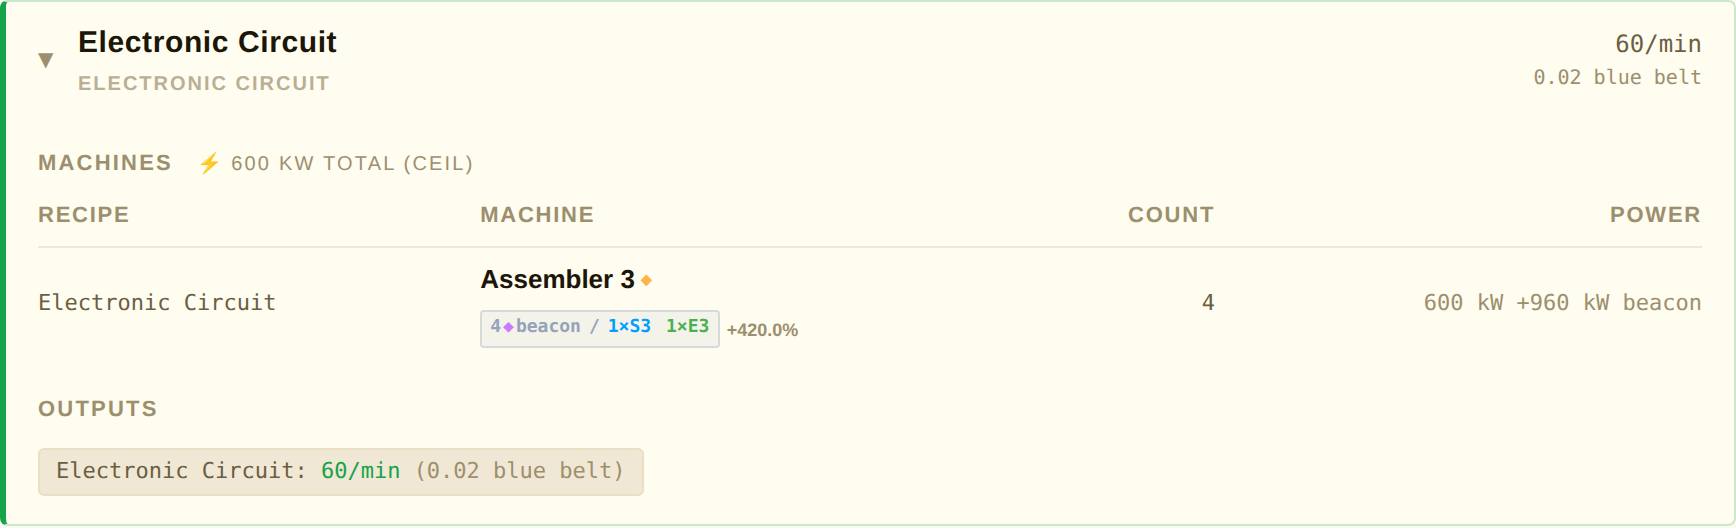
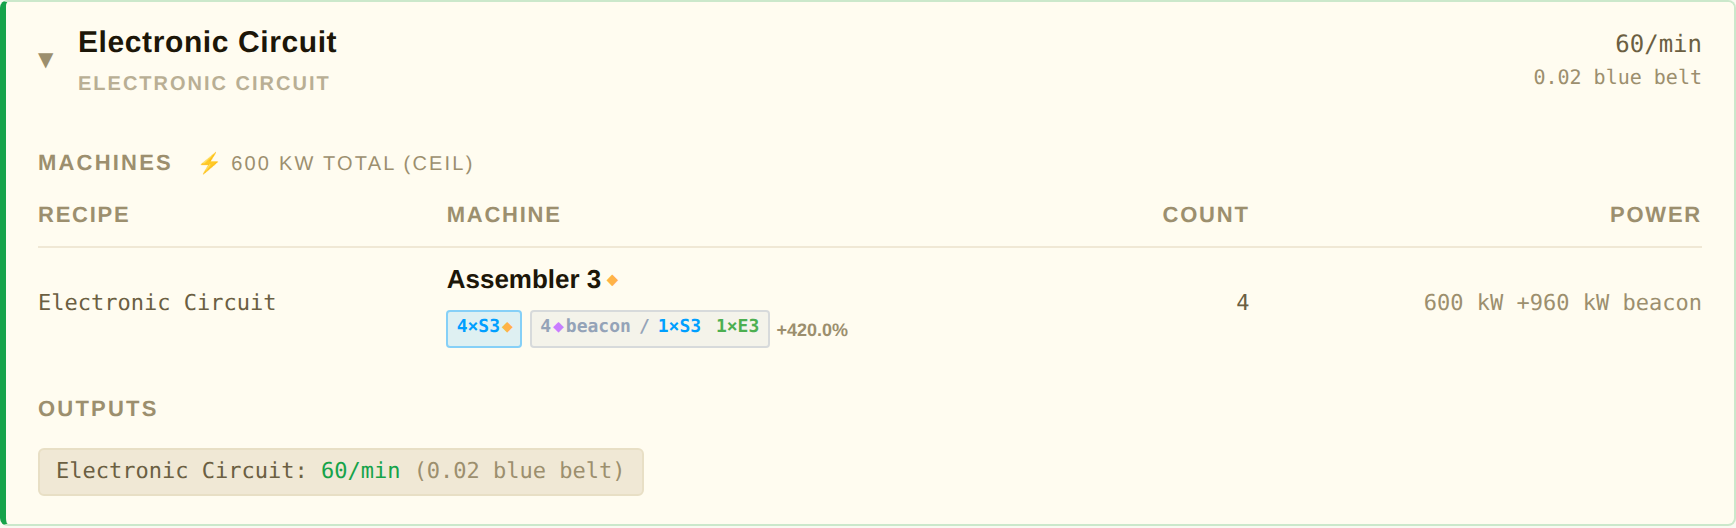
Add machine module configs to all screenshots
Module combination and quality tier both vary with machine quality:
  normal:    4×P3 (normal)
  uncommon:  3×P3 + 1×S3 (uncommon)
  rare:      2×P3 + 2×S3 (rare)
  epic:      2×P3 + 1×S3 + 1×E3 (epic)
  legendary: 4×S3 (legendary)

https://claude.ai/code/session_01SyKx24fZjBrdm6oV2dN8BW

diff --git a/dev/screenshot_tests.py b/dev/screenshot_tests.py
@@ -42,6 +42,18 @@ BEACON_CONFIGS = {
     "legendary": {"count": 3, "modules": [{"count": 2, "type": "speed",      "tier": 3, "quality": "normal"}]},
 }
 
+# Machine module configs vary by machine quality: different combos + matching quality tier.
+def _m(count, mtype, quality):
+    return {"count": count, "type": mtype, "tier": 3, "quality": quality}
+
+MACHINE_MODULE_CONFIGS = {
+    "normal":    [_m(4, "prod",       "normal")],
+    "uncommon":  [_m(3, "prod",       "uncommon"), _m(1, "speed",      "uncommon")],
+    "rare":      [_m(2, "prod",       "rare"),     _m(2, "speed",      "rare")],
+    "epic":      [_m(2, "prod",       "epic"),     _m(1, "speed",      "epic"),  _m(1, "efficiency", "epic")],
+    "legendary": [_m(4, "speed",      "legendary")],
+}
+
 
 def make_state(machine_quality: str, beacon_quality: str, with_beacon: bool) -> dict:
     if with_beacon:
@@ -80,7 +92,7 @@ def make_state(machine_quality: str, beacon_quality: str, with_beacon: bool) -> 
         "machine_quality": machine_quality,
         "beacon_quality": beacon_quality,
         "default_beacon": default_beacon,
-        "module_configs": {},
+        "module_configs": {"assembling-machine-3": MACHINE_MODULE_CONFIGS[machine_quality]},
         "beacon_configs": {},
         "recipe_module_overrides": {},
         "recipe_beacon_overrides": {},
